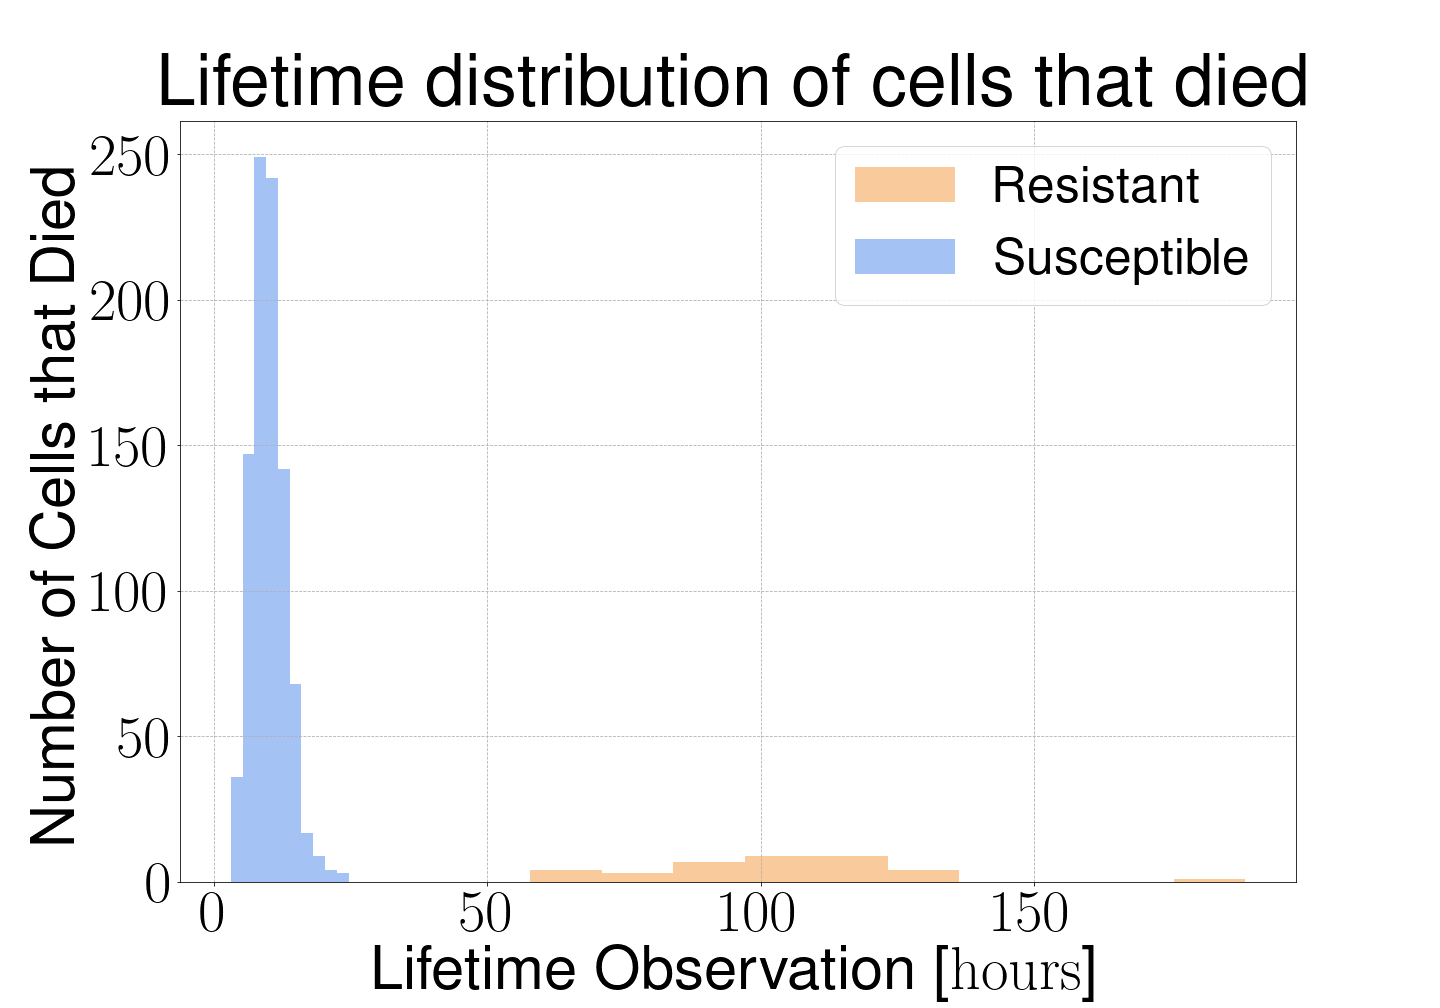
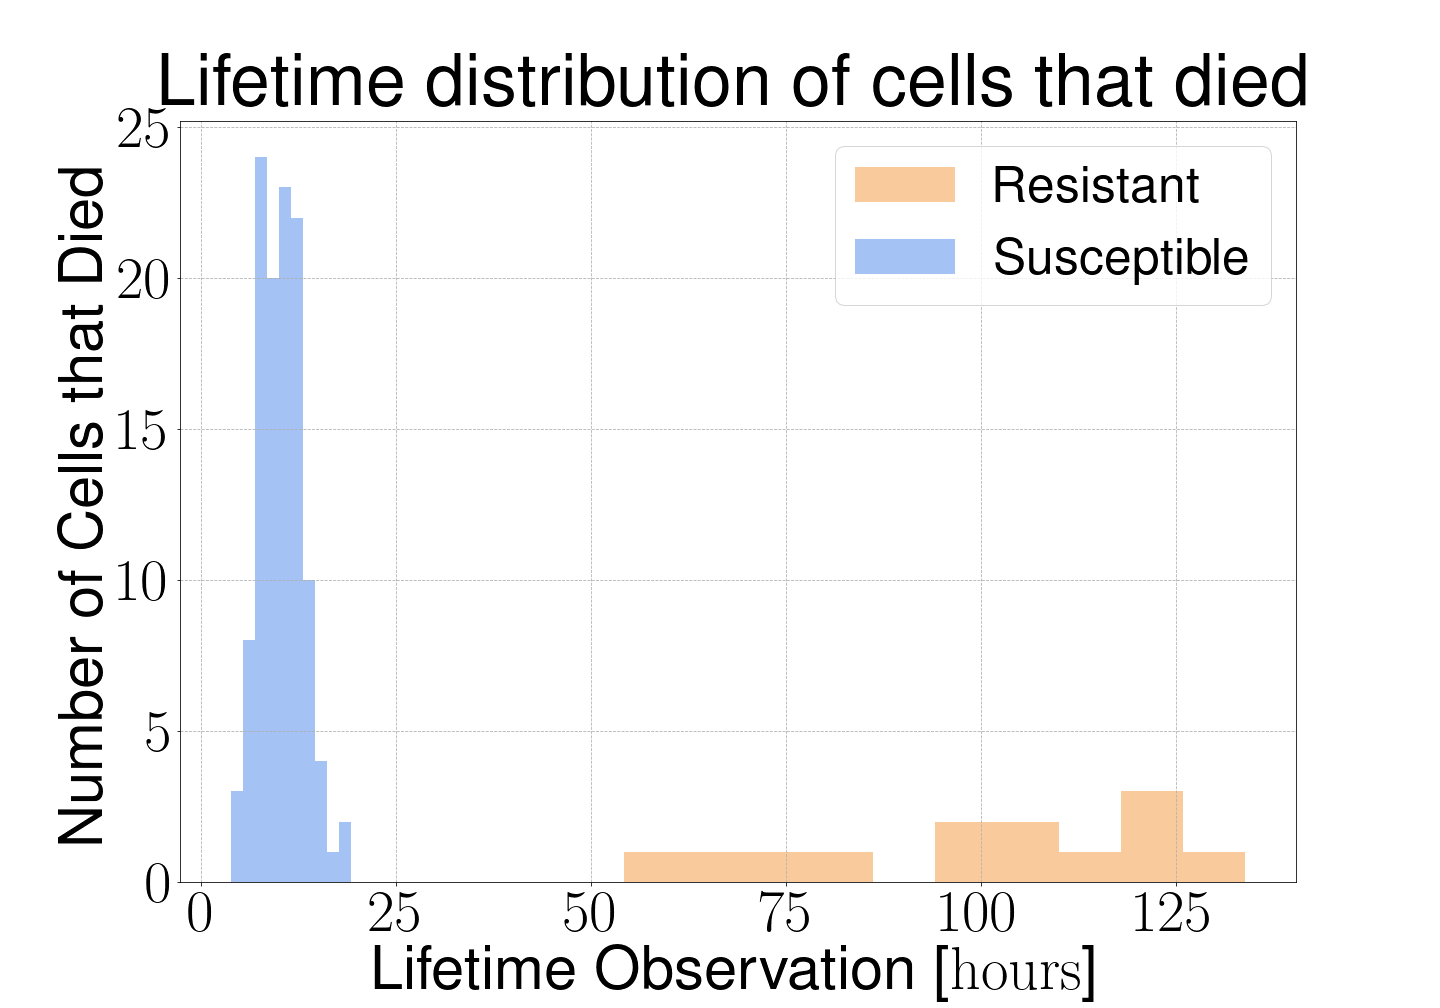
more work

diff --git a/lineage/figures/figure9.py b/lineage/figures/figure9.py
@@ -56,21 +56,17 @@ def accuracy_increased_cells():
     state_obj1 = StateDistribution(state1, bern_p1, gamma_a1, gamma_loc, gamma_scale1)
     E = [state_obj0, state_obj1]
     
-    desired_num_cells = 2**12 - 1
-    experiment_time = 100
-    num_lineages = list(range(1, 25))
+    desired_num_cells = 2**9 - 1
+    experiment_time = 50
+    num_lineages = list(range(1, 75))
     list_of_lineages = []
 
     for num in num_lineages:
         X1 = []
         for lineages in range(num):
             # Creating an unpruned and pruned lineage
-            lineage = LineageTree(piiii, T, E, desired_num_cells, experiment_time, prune_condition='both', prune_boolean=True)
-            while len(lineage.output_lineage) < 16:
-                lineage = LineageTree(piiii, T, E, (2**12)-1, experiment_time, prune_condition='both', prune_boolean=True)
+            X1.append(LineageTree(piiii, T, E, desired_num_cells, experiment_time, prune_condition='both', prune_boolean=True))
 
-            # Setting then into a list or a population of lineages and collecting the length of each lineage
-            X1.append(lineage)
         # Adding populations into a holder for analysing
         list_of_lineages.append(X1)
 
@@ -83,8 +79,9 @@ def accuracy_increased_cells():
         # Analyzing the lineages
         deltas, _, all_states, tHMMobj, _, _ = Analyze(X1, 2)
         
-        # Collecting how many lineages are in each analysis
-        x.append(len(X1))
+        # Collecting how many cells are in each lineage in each analysis
+        num_cells_holder = [len(lineageObj.output_lineage) for lineageObj in X1]
+        x.append(sum(num_cells_holder))
 
         # Collecting the accuracies of the lineages
         acc1 = accuracy(tHMMobj, all_states)[0]*100
@@ -104,13 +101,14 @@ def accuracy_increased_cells():
 
         pi_mat = tHMMobj.estimate.pi
         t1 = piiii - pi_mat
+        print(len(X1))
         print(piiii, pi_mat, t1)
         pi.append(np.linalg.norm(t1))
 
     return x, accuracies, tr, pi
 
 
-def moving_average(a, n=5):
+def moving_average(a, n=15):
     ret = np.cumsum(a, dtype=float)
     ret[n:] = ret[n:] - ret[:-n]
     return ret[n - 1:] / n
@@ -131,7 +129,7 @@ def figure_maker(ax, x, accuracies, tr, pi):
     ax[i].set_xlabel('Number of Cells')
     ax[i].set_ylim(0, 110)
     ax[i].scatter(x, accuracies, c='k', marker="o", label='Accuracy', edgecolors='k', alpha=0.25)
-    ax[i].plot(sorted_x_vs_acc[:, 0][4:], moving_average(sorted_x_vs_acc[:, 1]), c='k', label='Moving Average')
+    ax[i].plot(sorted_x_vs_acc[:, 0][14:], moving_average(sorted_x_vs_acc[:, 1]), c='k', label='Moving Average')
     ax[i].set_ylabel(r'Accuracy [\%]')
     ax[i].axhline(y=100, linestyle='--', linewidth=2, color='k', alpha=1) 
     ax[i].set_title('State Assignment Accuracy')
@@ -140,9 +138,9 @@ def figure_maker(ax, x, accuracies, tr, pi):
 
     i += 1
     ax[i].set_xlim((0, int(np.ceil(1.1 * max(x)))))
-    ax[i].set_xlabel('Number of Lineages')
+    ax[i].set_xlabel('Number of Cells')
     ax[i].scatter(x, tr, c='k', marker="o", edgecolors='k', alpha=0.25)
-    ax[i].plot(sorted_x_vs_tr[:, 0][4:], moving_average(sorted_x_vs_tr[:, 1]), c='k', label='Moving Average')
+    ax[i].plot(sorted_x_vs_tr[:, 0][14:], moving_average(sorted_x_vs_tr[:, 1]), c='k', label='Moving Average')
     ax[i].set_ylabel(r'$||T-T_{est}||_{F}$')
     ax[i].axhline(y=0, linestyle='--', linewidth=2, color='k', alpha=1)
     ax[i].set_title('Transition Matrix Estimation')
@@ -151,12 +149,12 @@ def figure_maker(ax, x, accuracies, tr, pi):
     
     i += 1
     ax[i].set_xlim((0, int(np.ceil(1.1 * max(x)))))
-    ax[i].set_xlabel('Number of Lineages')
+    ax[i].set_xlabel('Number of Cells')
     ax[i].scatter(x, pi, c='k', marker="o", edgecolors='k', alpha=0.25)
-    ax[i].plot(sorted_x_vs_pi[:, 0][4:], moving_average(sorted_x_vs_pi[:, 1]), c='k', label='Moving Average')
+    ax[i].plot(sorted_x_vs_pi[:, 0][14:], moving_average(sorted_x_vs_pi[:, 1]), c='k', label='Moving Average')
     ax[i].set_ylabel(r'$||\pi-\pi_{est}||_{2}$')
     ax[i].axhline(y=0, linestyle='--', linewidth=2, color='k', alpha=1)
-    ax[i].set_title(r'Initial Seeding Density Estimation')
+    ax[i].set_title(r'Initial Seeding Proportion Estimation')
     ax[i].grid(linestyle='--')
     ax[i].tick_params(axis='both', which='major', grid_alpha=0.25)
 

diff --git a/lineage/Viterbi.py b/lineage/Viterbi.py
@@ -145,7 +145,10 @@ def Viterbi(tHMMobj, deltas, state_ptrs):
     first_state_count = [0]*tHMMobj.numStates
     for num, lineageObj in enumerate(tHMMobj.X):
         first_cell_state = all_states[num][0]
+        print(first_cell_state, lineageObj.output_lineage[0].state)
         first_state_count[first_cell_state] += 1
+    print(first_state_count)
     tHMMobj.estimate.pi = np.array(first_state_count)/sum(first_state_count)
+    print('pi', tHMMobj.estimate.pi)
     
     return all_states
